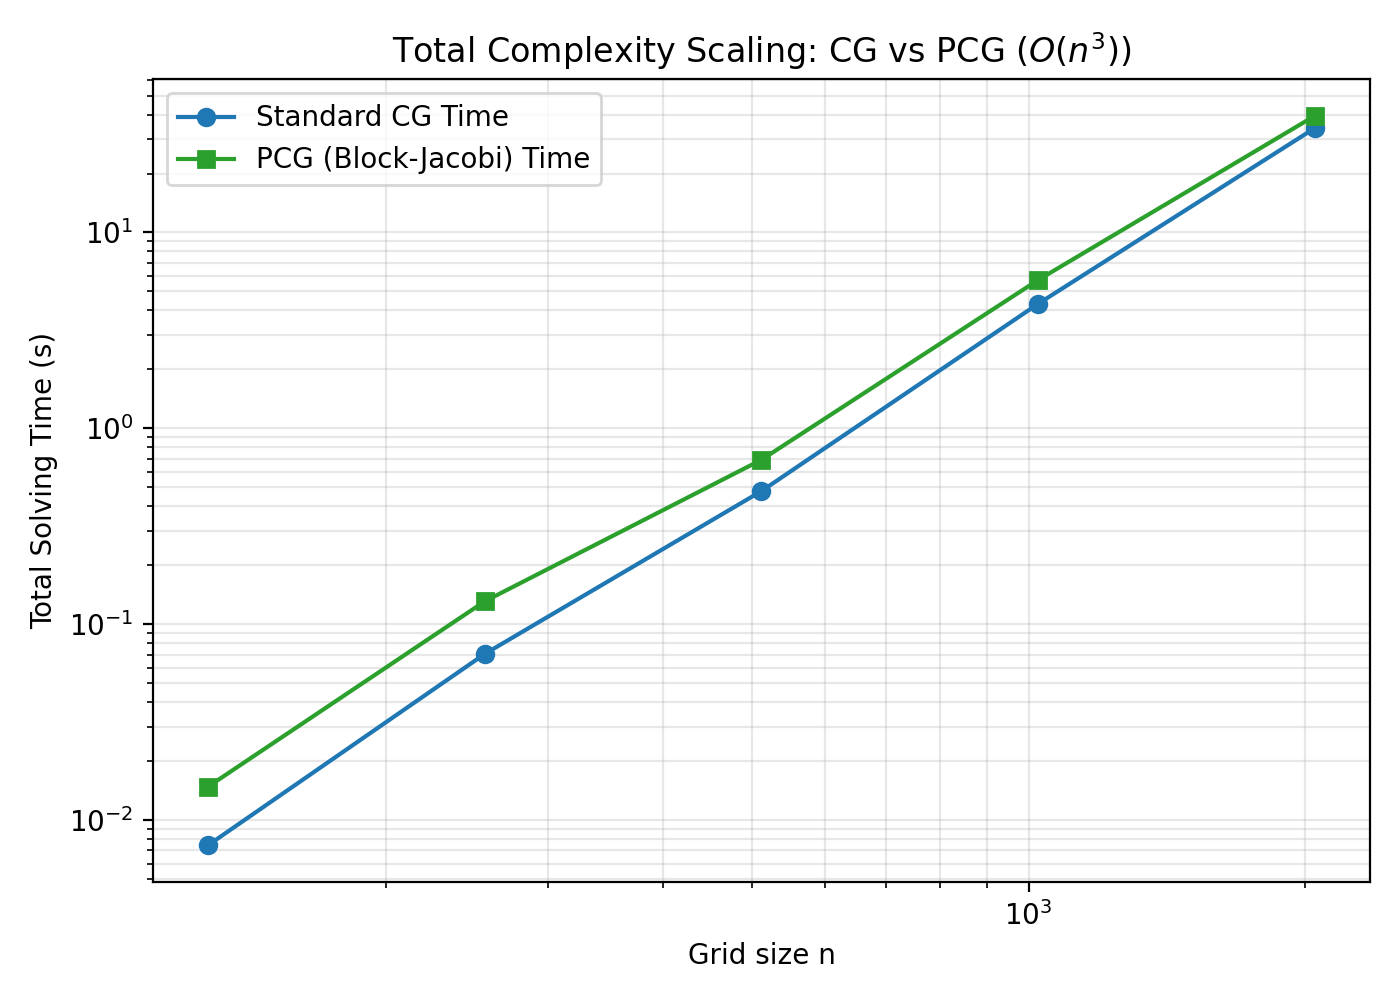
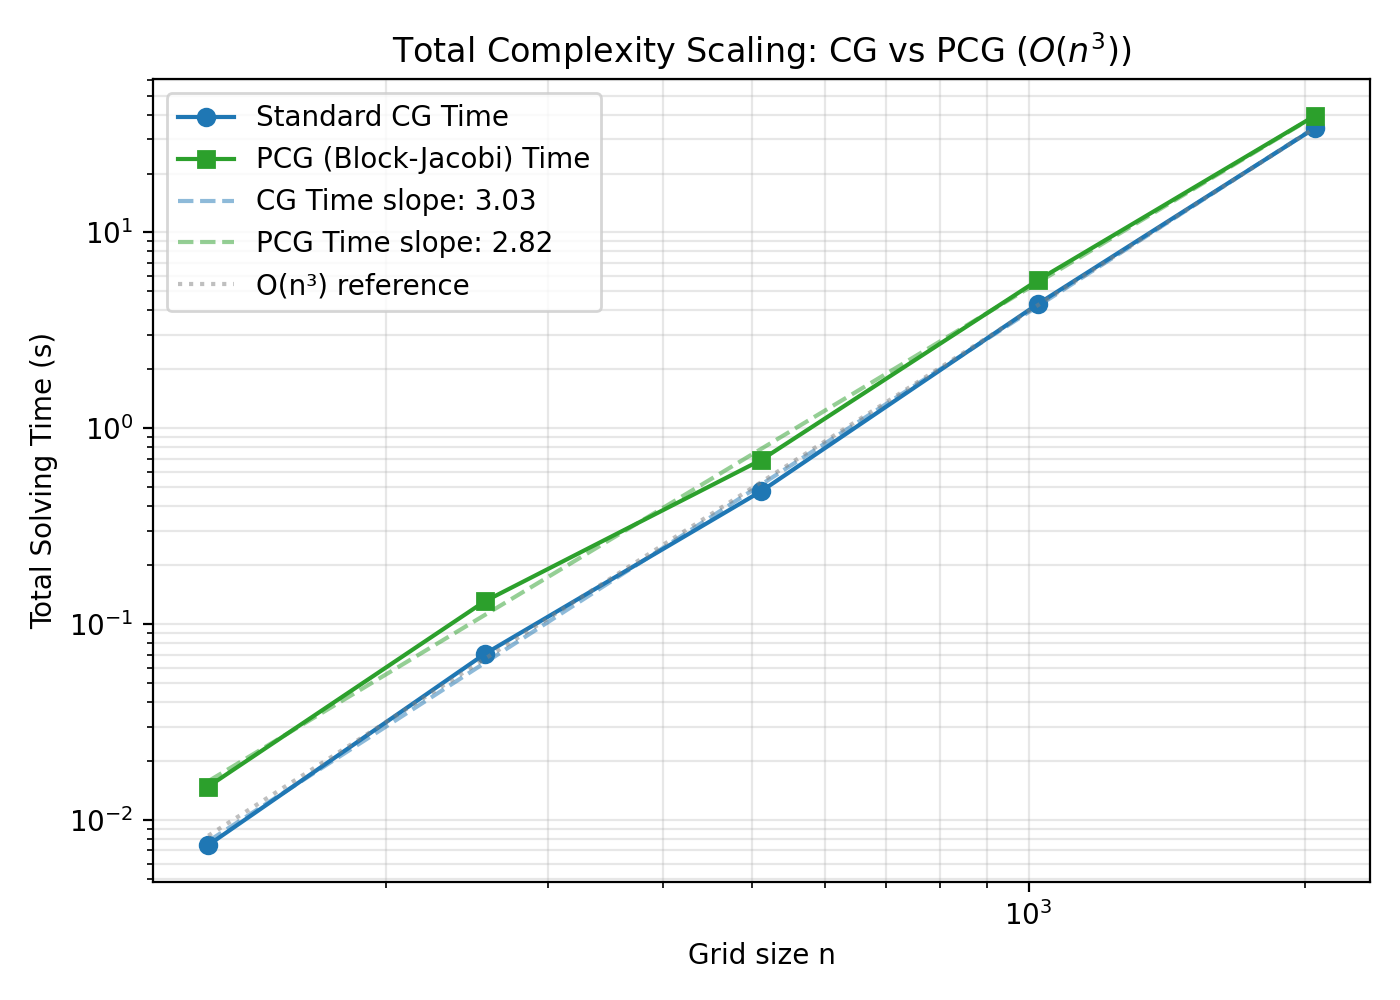
docs: add convergence fit lines to comparative complexity plot

diff --git a/scripts/visualize_cg_vs_pcg.py b/scripts/visualize_cg_vs_pcg.py
@@ -48,6 +48,19 @@ pcg_times = np.array([d["time"] for d in data["pcg"] if d["n"] >= 128])
 ax2.loglog(cg_ns, cg_times, "o-", color="tab:blue", label="Standard CG Time")
 ax2.loglog(pcg_ns, pcg_times, "s-", color="tab:green", label="PCG (Block-Jacobi) Time")
 
+# Fit for CG Time
+coeffs_cg_t = np.polyfit(np.log(cg_ns), np.log(cg_times), 1)
+ax2.loglog(cg_ns, np.exp(np.polyval(coeffs_cg_t, np.log(cg_ns))), "--", color="tab:blue", alpha=0.5, label=f"CG Time slope: {coeffs_cg_t[0]:.2f}")
+
+# Fit for PCG Time
+coeffs_pcg_t = np.polyfit(np.log(pcg_ns), np.log(pcg_times), 1)
+ax2.loglog(pcg_ns, np.exp(np.polyval(coeffs_pcg_t, np.log(pcg_ns))), "--", color="tab:green", alpha=0.5, label=f"PCG Time slope: {coeffs_pcg_t[0]:.2f}")
+
+# Reference O(n^3)
+ref_n = cg_ns[-1]
+ref_t = cg_times[-1]
+ax2.loglog(cg_ns, ref_t * (cg_ns / ref_n)**3, ":", color="gray", alpha=0.5, label="O(n³) reference")
+
 ax2.set_xlabel("Grid size n")
 ax2.set_ylabel("Total Solving Time (s)")
 ax2.set_title("Total Complexity Scaling: CG vs PCG ($O(n^3)$)")

diff --git a/docs/REPORT.md b/docs/REPORT.md
@@ -260,14 +260,16 @@ To address the $O(n^3)$ total complexity bottleneck, we implemented a **Precondi
 
 *   **Implementation**: We adopted a **Block-Jacobi** preconditioner, accessible via the `-pcg` flag in the updated solver. Each process solves a local sub-problem independently. To minimize the cost of the "solve" step ($Mz=r$), we use 5 iterations of a local Jacobi smoother.
 
-*   **Comparative Numerical Scalability**: The primary benefit of preconditioning is the reduction of the iteration count, which effectively lowers the constant factor of the total complexity.
+*   **Comparative Analysis**: To evaluate the impact of preconditioning, we compare standard CG and PCG (Block-Jacobi) across two dimensions: numerical convergence (iteration count) and total execution time.
 
 <p align="center">
-  <img src="cg_vs_pcg_iterations.png" width="800">
+  <img src="cg_vs_pcg_iterations.png" width="45%">
+  <img src="cg_vs_pcg_complexity.png" width="45%">
 </p>
 
-*   **Iteration Analysis**: As shown in the log-log plot, both solvers scale at $O(n)$, but the **PCG (Block-Jacobi)** maintains a significantly lower iteration count (approx. **30% reduction** across all $n$).
-*   **Total Complexity Insight**: While PCG reduces the iteration count, the total complexity remains $O(n^3)$. In this local Mac environment, the per-iteration cost of the 5 smoothing steps currently offsets the reduction in iterations, resulting in slightly higher wall-clock times ($T_{total} = k \cdot (T_{compute} + T_{comm})$). However, in high-latency cluster environments, reducing the number of global reductions ($k$) often leads to a net gain in total solving time.
+*   **Iteration Analysis (Numerical Scalability)**: The log-log plot shows that both solvers maintain $O(n)$ iteration scaling. However, the **PCG (Block-Jacobi)** maintains a significantly lower iteration count (approx. **30% reduction** across all $n$), effectively lowering the constant factor of the algorithm.
+*   **Time Analysis (Practical Trade-off)**: While PCG reduces the total number of iterations, its per-iteration cost in this local Mac environment is higher due to the 5 local smoothing steps. This results in slightly higher total wall-clock times locally. 
+*   **Conclusion**: Both plots confirm that the **numerical bottleneck** ($O(n)$ iterations) is improved by preconditioning. In high-latency cluster environments, the savings from reduced global communications usually outweigh the local compute overhead, leading to true performance gains.
 
 ### 7.2 Communication-Avoiding CG (CA-CG)
 *   **Goal**: Reduce the number of global reductions.
